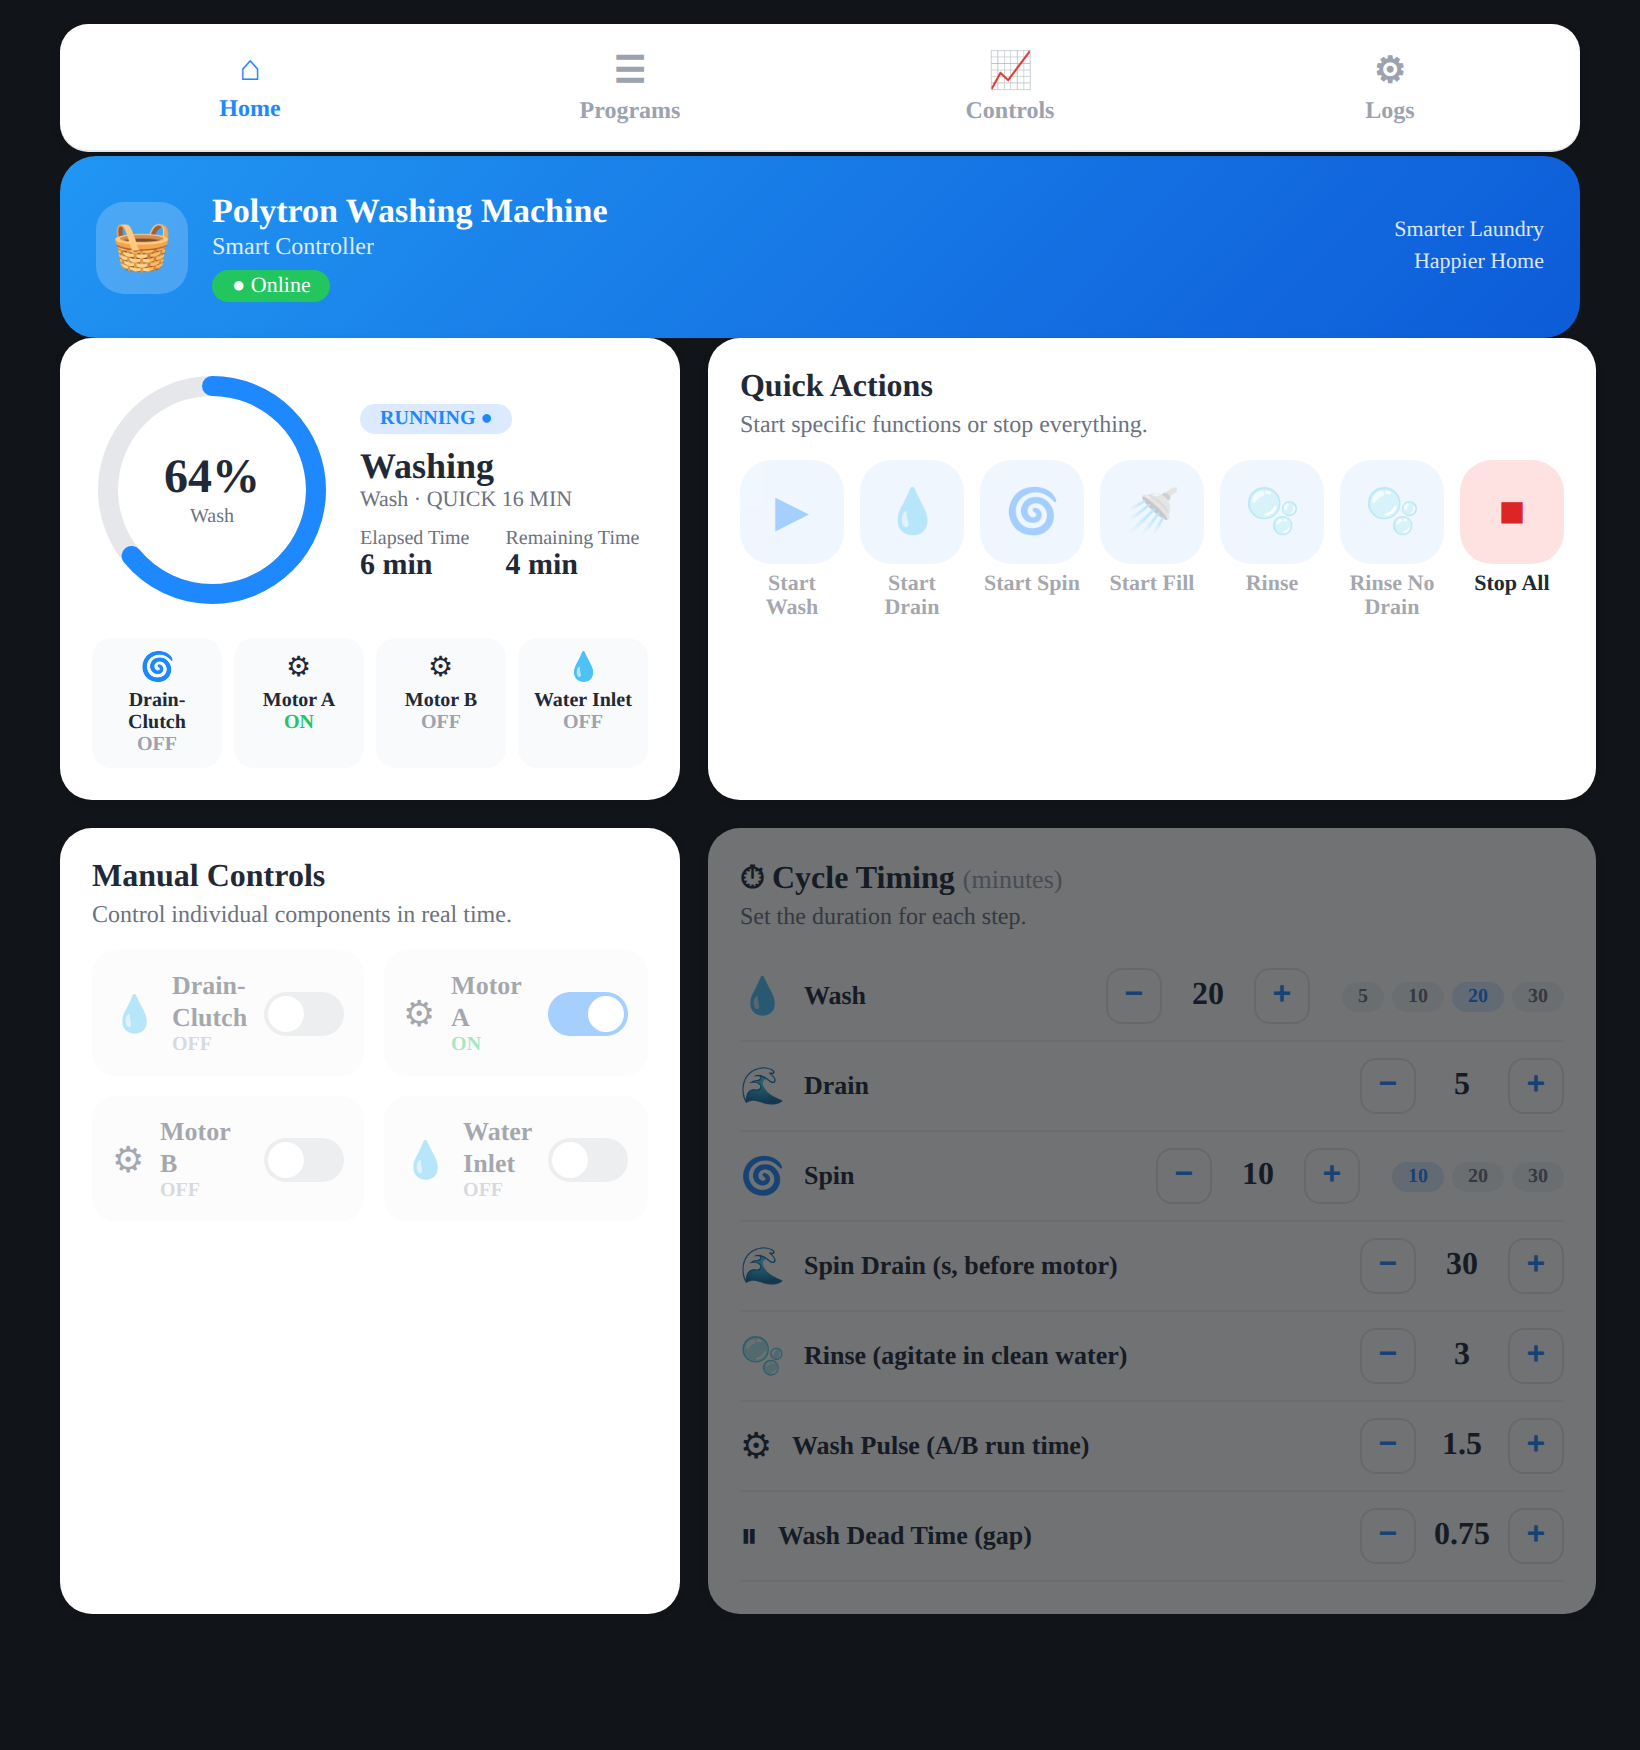
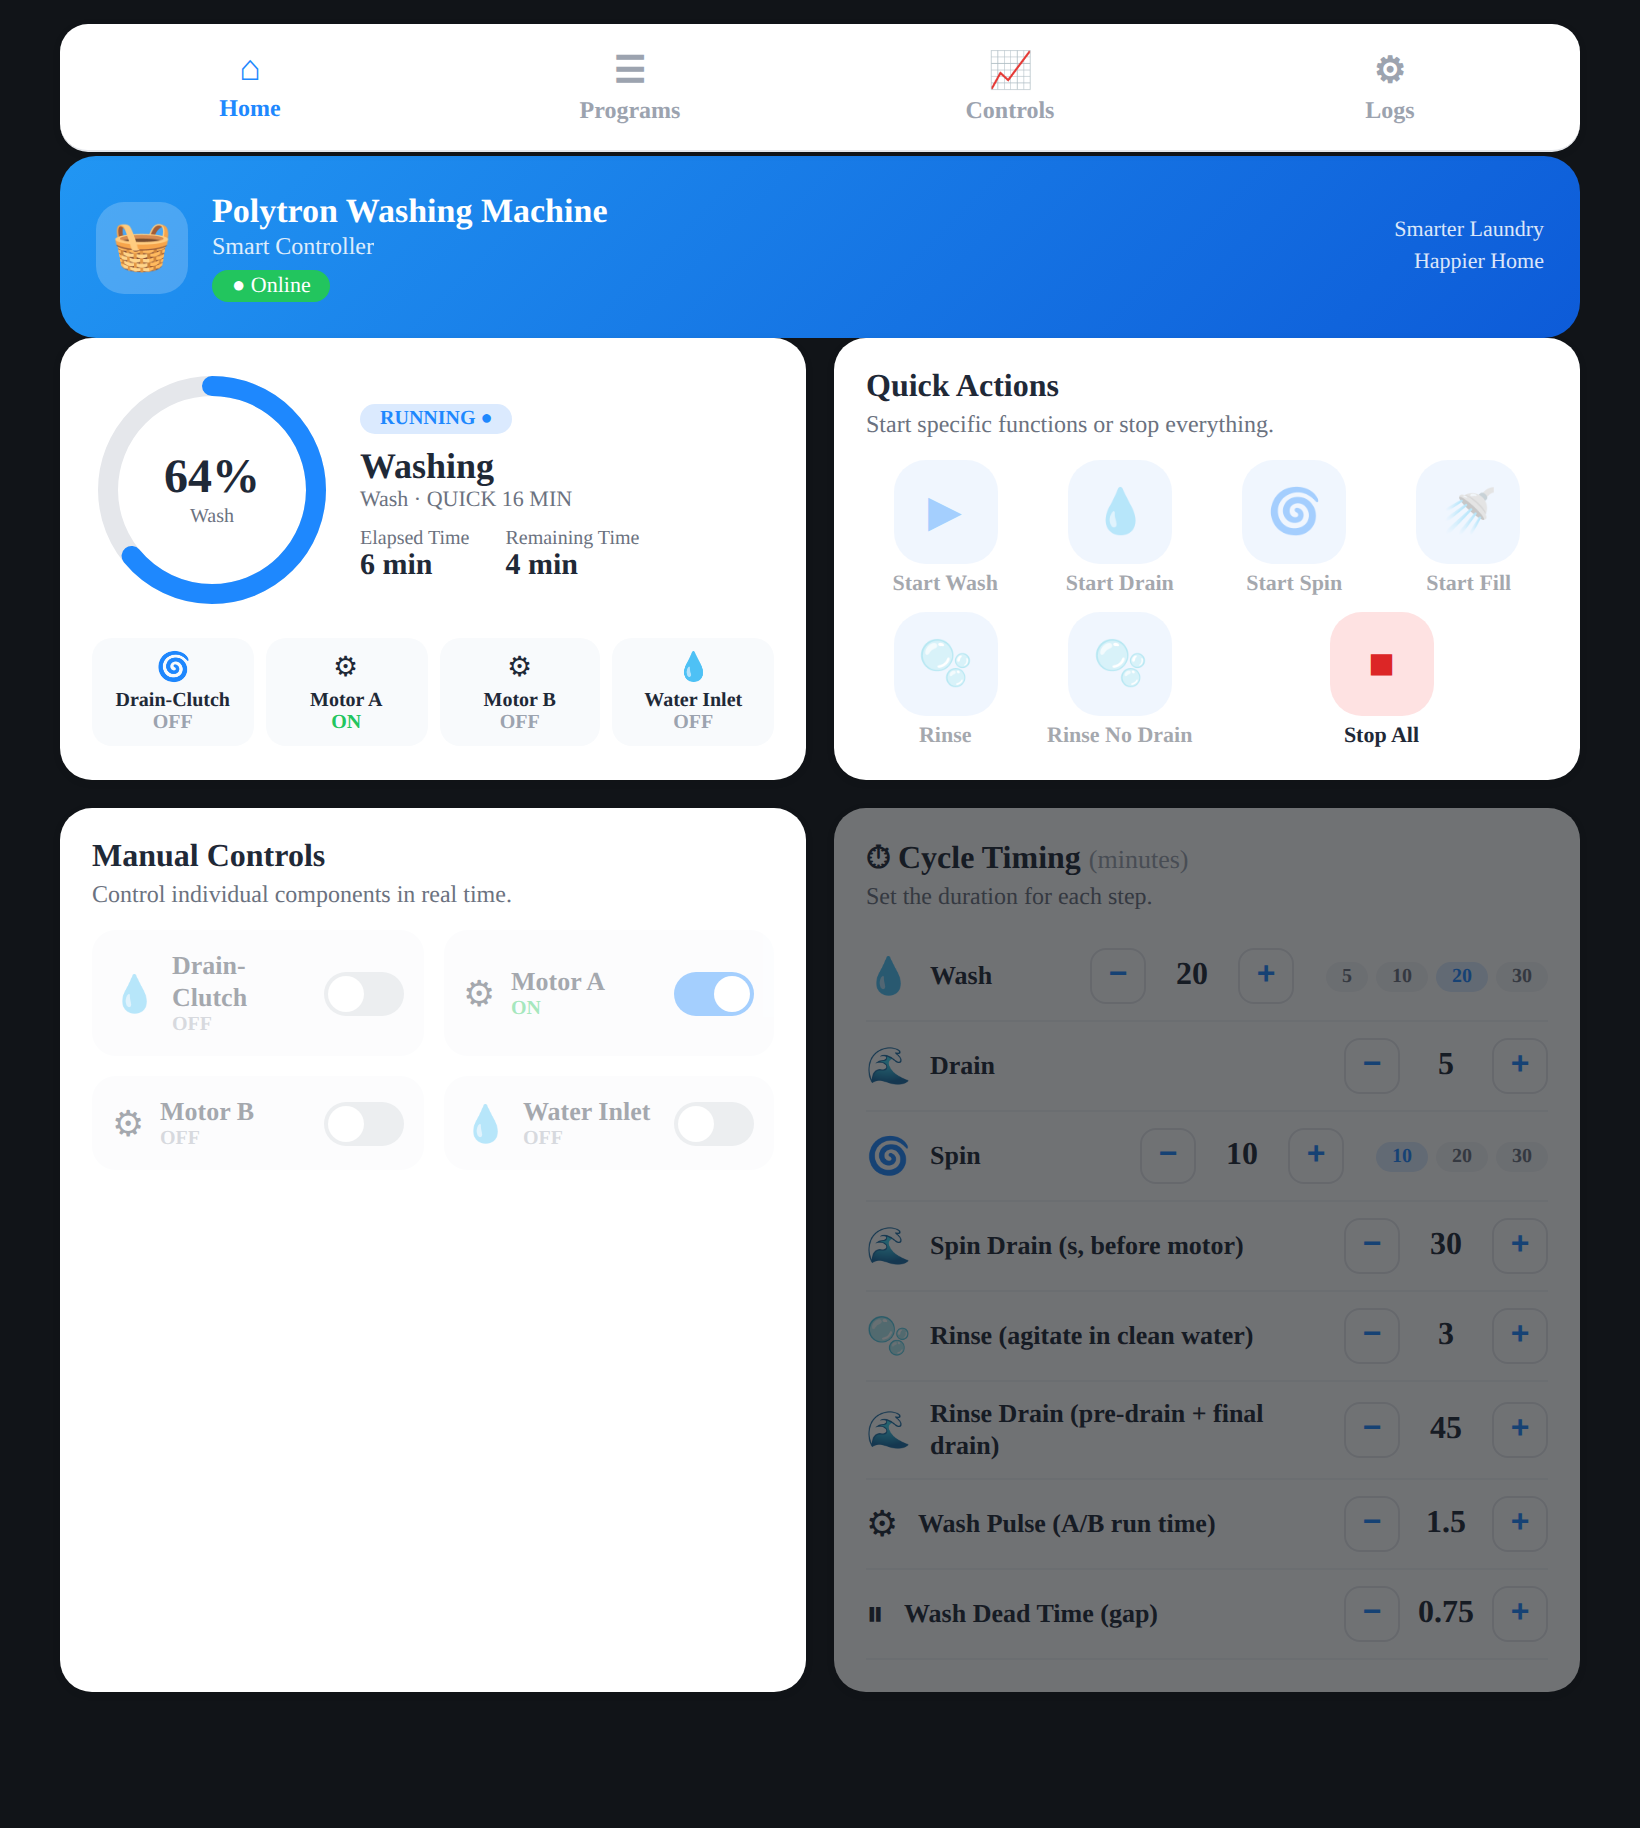
Screenshots: two-row HA card quick actions + Rinse Drain stepper
- HA card quick actions: 4-column grid at all widths (7 buttons = two
  rows, Stop All spans 2) — replaces both the old single-row flex and
  the earlier 2-column mobile fallback that made four rows
- re-shot HA card home/mobile; re-shot all three device UI captures
  with the Rinse Drain stepper and updated mock (45 s)
- card deployed to HA as ?v=11

diff --git a/ha/www/polytron/polytron-washer-card.js b/ha/www/polytron/polytron-washer-card.js
@@ -243,7 +243,7 @@ class PolytronWasherCard extends HTMLElement {
       .tg.on{background:#1e88fe}.kn{position:absolute;top:2px;left:2px;width:18px;height:18px;background:#fff;border-radius:50%;transition:.2s}
       .tg.on .kn{left:20px}
       .qarow{display:grid;grid-template-columns:repeat(4,1fr);gap:8px}.qa{text-align:center;cursor:pointer}
-      @media(max-width:480px){.qarow{grid-template-columns:repeat(2,1fr)}.qarow .qa.r{grid-column:span 2}}
+      .qarow .qa.r{grid-column:span 2}
       .qa-c{width:52px;height:52px;border-radius:16px;background:#dbeafe;color:#1e88fe;font-size:22px;display:flex;align-items:center;justify-content:center;margin:0 auto 4px}
       .qa.r .qa-c{background:#fee2e2;color:#dc2626}.qa-t{font-size:11px;font-weight:600}
       .step{display:flex;align-items:center;gap:10px;padding:8px 0;border-bottom:1px solid #f3f4f6}

diff --git a/ui/mock-server.py b/ui/mock-server.py
@@ -36,6 +36,7 @@ STATE = {
     "number/Fill Minutes": {"id": "number/Fill Minutes", "state": "5", "value": 5},
     "number/Rinse Minutes": {"id": "number/Rinse Minutes", "state": "3", "value": 3},
     "number/Spin Drain Seconds": {"id": "number/Spin Drain Seconds", "state": "30", "value": 30},
+    "number/Rinse Drain Seconds": {"id": "number/Rinse Drain Seconds", "state": "45", "value": 45},
     "number/Wash Pulse Seconds": {"id": "number/Wash Pulse Seconds", "state": "5", "value": 5},
     "number/Wash Dead Time Seconds": {"id": "number/Wash Dead Time Seconds", "state": "2", "value": 2},
     "number/Stop Coast Seconds": {"id": "number/Stop Coast Seconds", "state": "30", "value": 30},
